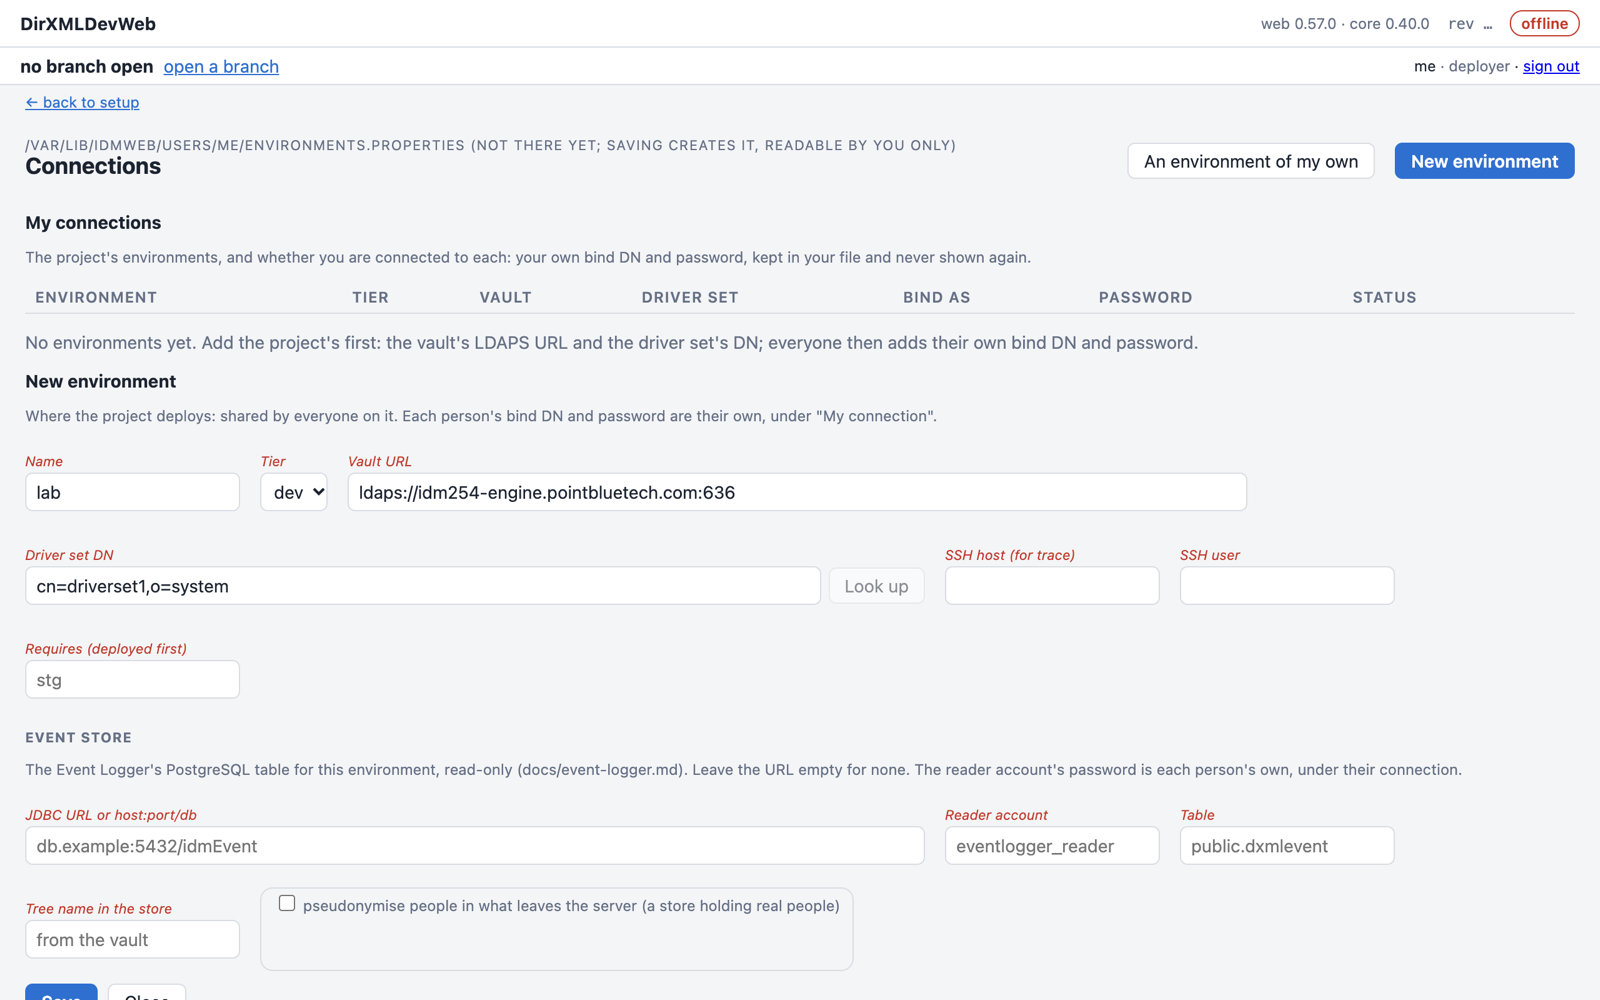
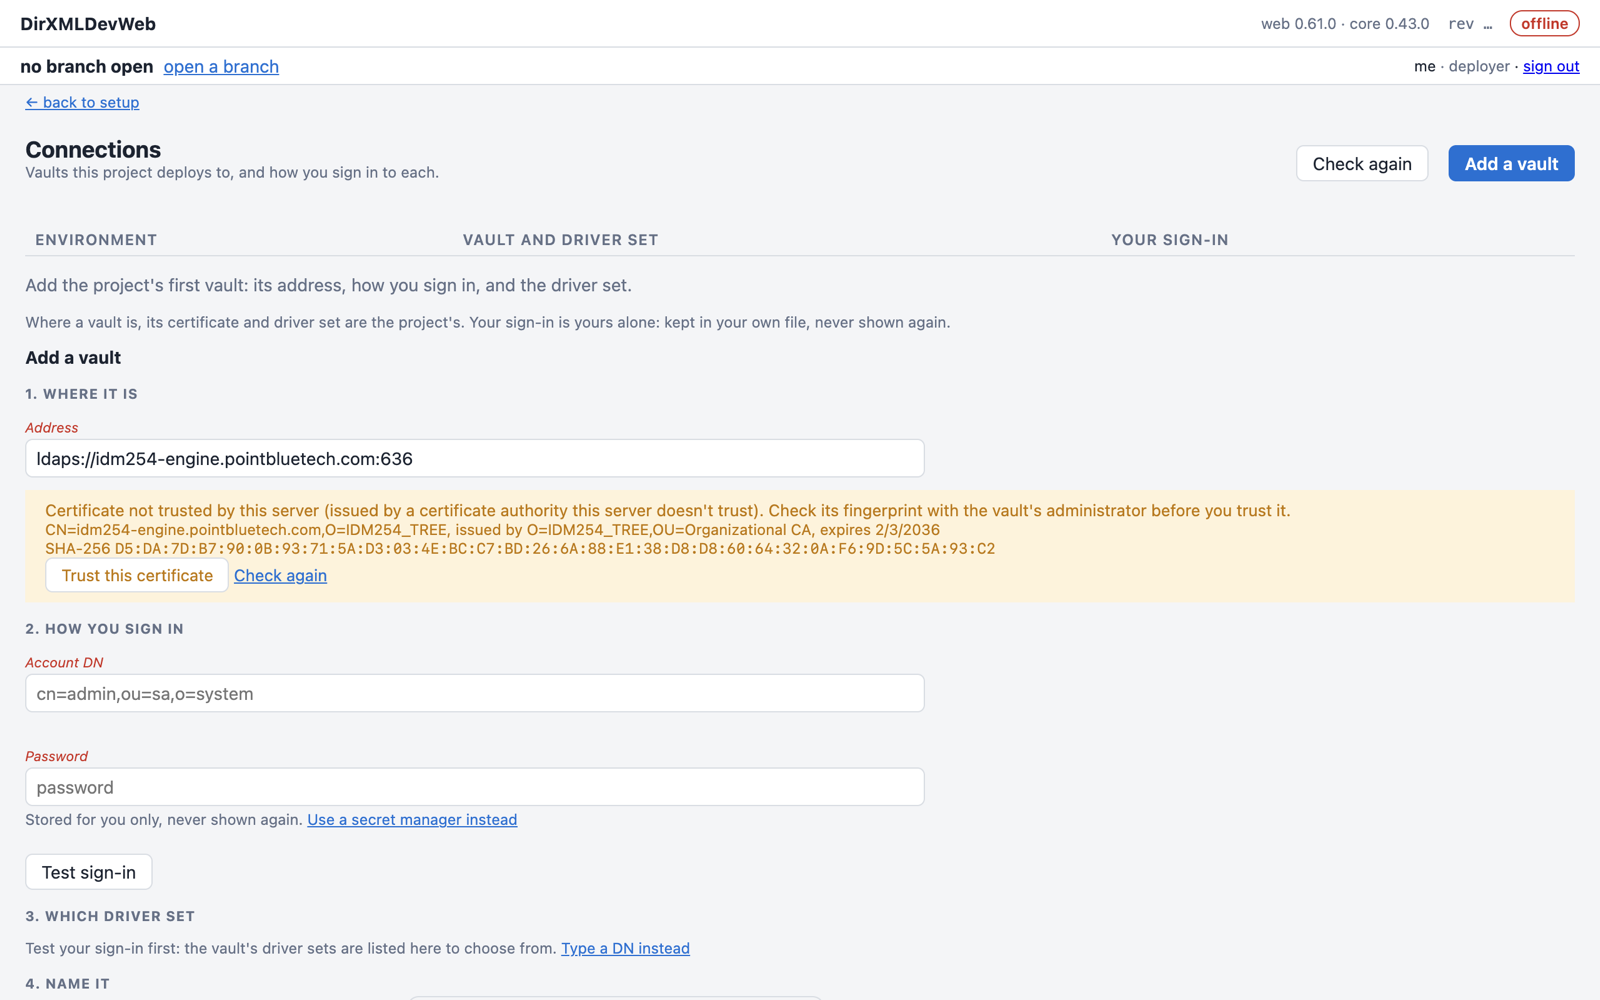
Tutorial: the new Connections page and deploy progress (0.61.0)
Step 3 follows Add a vault: address and certificate (Trust this
certificate pins it), sign-in and Test sign-in, the driver set from the
vault's list, name and kind; rotated passwords show as password
rejected with Update password. Step 7 says each deploy step shows as it
happens and the page can be left. Screenshots 03-05 retaken from the
released 0.61.0 image against idm254.

diff --git a/docs/tutorial.md b/docs/tutorial.md
@@ -54,40 +54,49 @@ Open the link. With no tree yet, the page asks where the tree comes from:
 ![The first-run page: Where does the tree come from?](screenshots/tutorial/01-first-run.png)
 
 Type a **project name** (this tutorial uses `idm-lab`), then choose **Export from an Identity
-Vault**. The page says there is no vault connection yet; follow its **Set up one** link.
+Vault**. The page says there is no vault connection yet; follow its **Set one up** link.
 
 ## 3. Connect to the vault
 
-A connection has two halves. The *environment* says where the vault is. It is shared by everyone
-on a project. *Your connection* says who you bind as. It is yours alone.
+The **Connections** page opens. Choose **Add a vault**. The form asks for things in the order they
+depend on each other, and only the first four steps are required.
 
-**The environment.** Choose **New environment** and fill in:
+**1. Where it is.** Type the vault's **Address**, its LDAPS URL. The page reads the vault's
+certificate straight away:
 
-- **Name**: a short name such as `lab`. You type it later to confirm a deploy.
-- **Tier**: `dev` for a lab.
-- **Vault URL**: the vault's LDAPS URL.
-- **Driver set DN**: the driver set to work on. Once your connection works (below), **Look up**
-  under *Definition* lists the driver sets the vault holds.
+- If this server already trusts the certificate, a green line says so. Carry on.
+- If not (a lab, or a vault with its own certificate authority), the page shows who the certificate
+  names, who issued it, when it expires, and its **SHA-256 fingerprint**. Check the fingerprint with
+  whoever runs the vault, then choose **Trust this certificate**. That pins exactly this certificate
+  for this vault. If it ever changes, the page refuses it and shows both fingerprints until someone
+  trusts the new one.
 
-Leave the rest (SSH host, event store) empty, and **Save**.
+![Add a vault: the address, and a certificate this server doesn't trust yet](screenshots/tutorial/03-new-environment.png)
 
-![New environment: name, tier, vault URL and driver set DN](screenshots/tutorial/03-new-environment.png)
+**2. How you sign in.** Give your **Account DN** and **Password**, then choose **Test sign-in**.
+The password is stored for you only, in a file readable by you alone, and never shown again. **Use
+a secret manager instead** reads it from a secret manager or an environment variable
+([secret-managers.md](secret-managers.md)). A failed test says why in plain words: wrong password,
+vault unreachable, or certificate not trusted.
 
-**Your connection.** The environment now shows *not connected*. Choose **Set up…** on its row and
-give:
+![The certificate pinned, and the sign-in fields](screenshots/tutorial/04-my-connection.png)
 
-- **Bind DN**: your account in the vault.
-- **Accept any certificate**: tick it only for a lab vault, or a tunnel, whose certificate your
-  machine does not trust. Leave it clear for anything real.
-- **Password**: type it into the password field, and keep "keep it in the environments file". The
-  file is readable by you alone, and the page never shows the password again. The other choices
-  read it from an environment variable or a secret manager ([secret-managers.md](secret-managers.md)).
+**3. Which driver set.** Once the test passes, the vault's driver sets are listed. Choose the one
+to work on. **Type a DN instead** is there if you'd rather type it.
 
-![Your own connection: bind DN, certificate trust and password](screenshots/tutorial/04-my-connection.png)
+**4. Name it.** A short **Name** such as `lab`; you type it later to confirm a deploy. The
+**Kind**: *dev* for a lab, *test*, or *production*.
 
-Choose **Test connection**, then **Save**. The row turns *connected*:
+**More settings** (deploy order, trace over SSH, the event store) is optional; leave it closed.
+Choose **Save vault**. The vault appears in the list, and its sign-in is checked:
 
-![The environment is connected](screenshots/tutorial/05-connected.png)
+![The vault in the list: connected](screenshots/tutorial/05-connected.png)
+
+Each vault in the list shows one status and one action. When a password is rotated, its row
+turns **password rejected** with an **Update password** button, and the top bar shows it too.
+Update password tests the new password before it replaces the old one.
+
+Go back to setup (**← back to setup**).
 
 ## 4. Read the driver set into a project
 
@@ -167,12 +176,16 @@ the writes, type the environment's name, then choose **Deploy to lab**:
 
 ![The plan, and the environment's name typed to allow the deploy](screenshots/tutorial/15-plan.png)
 
-The deploy does four things:
+The deploy does four things, and the page shows each one as it happens, with a running clock.
+It's slowest while it waits for the driver to restart:
 
 1. It takes a snapshot of what it is about to change.
 2. It writes the policy.
 3. It restarts the driver.
 4. It compares again to verify the vault matches the tree.
+
+You can leave the page while it runs. Coming back to **Compare & deploy** shows the deploy still
+running, or its result.
 
 ![Deployed: the vault matches the tree](screenshots/tutorial/16-deployed.png)
 
